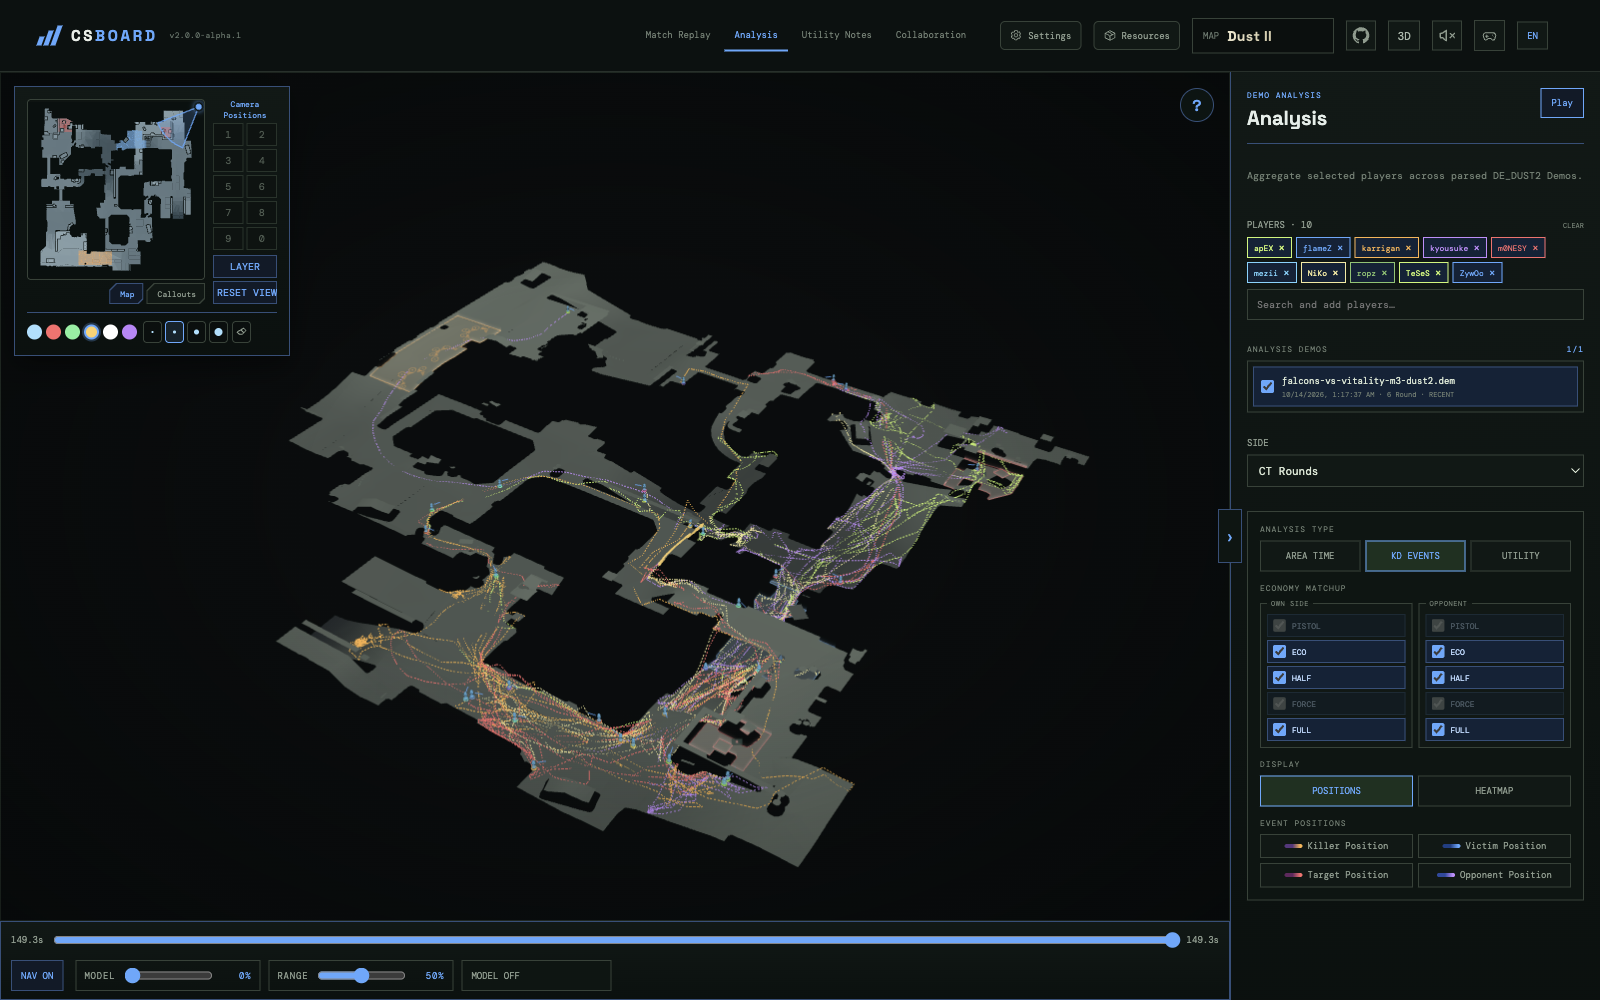
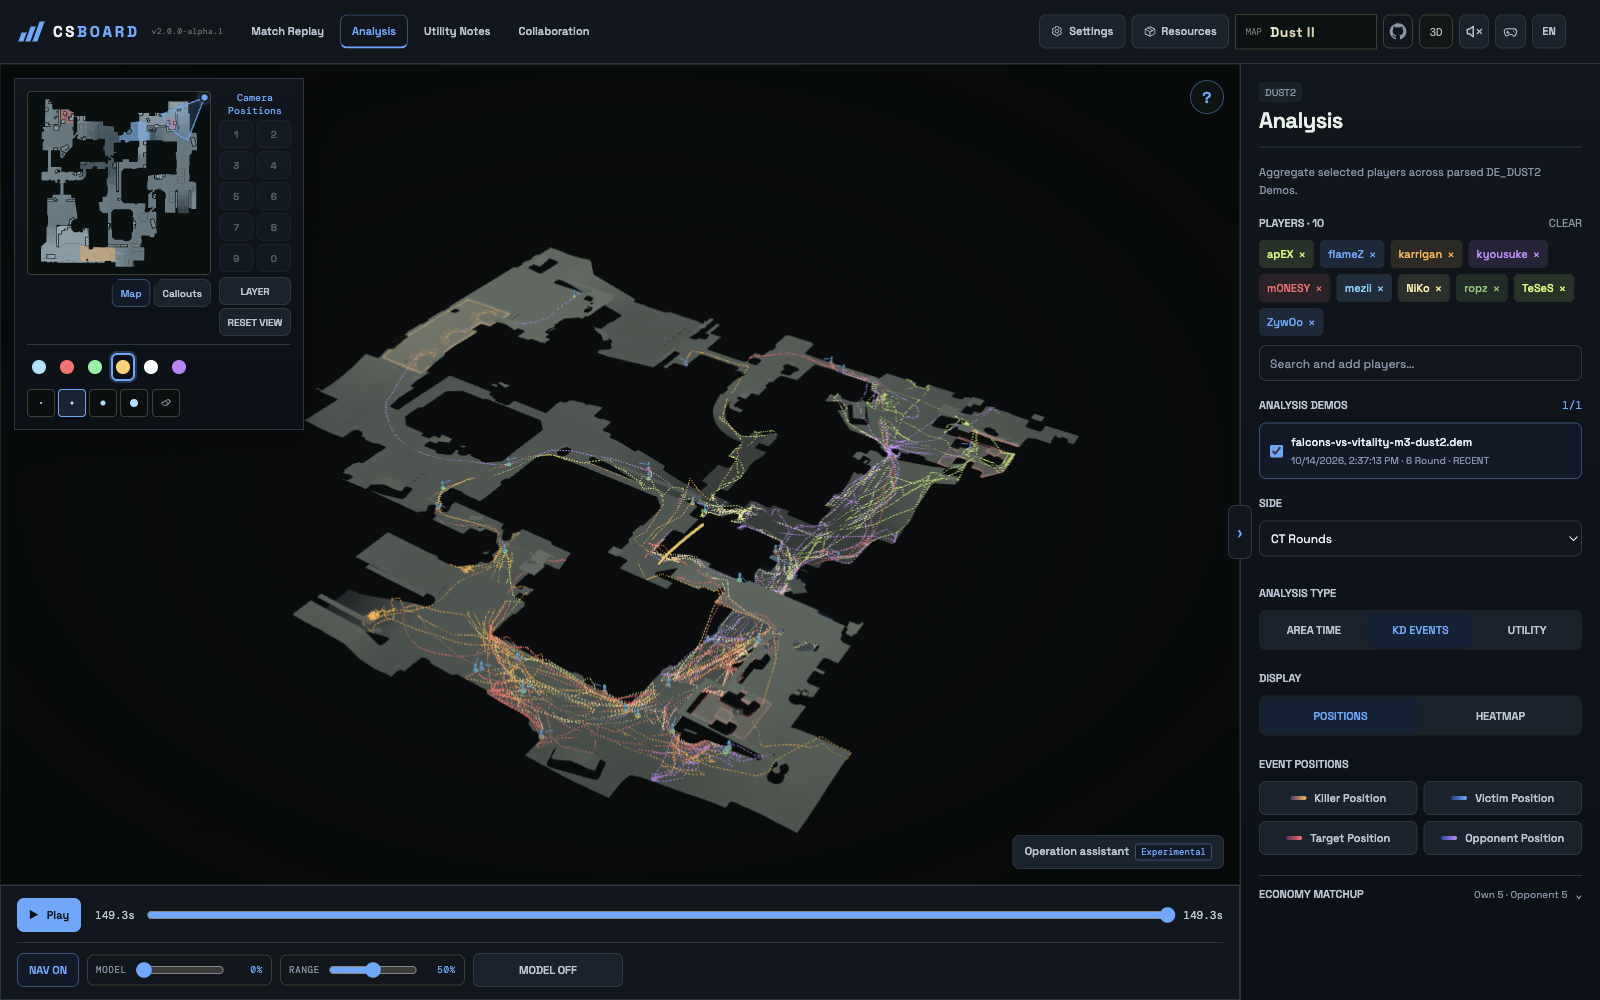
release: v2.0.0-alpha.2

diff --git a/docs/developer-guide.md b/docs/developer-guide.md
@@ -47,6 +47,10 @@ Public layouts use scene metres and radians; explicitly convert Source coordinat
 - Specify ownership and release of segments, Workers, subscriptions and GPU resources. Models remain optional.
 - Update assertions and test doubles with behavior changes. Check packaged dependencies and IPC using an actual application launch.
 
+## Workspace UI primitives
+
+`src/components/workspace/WorkspaceControls.jsx` provides `WorkspaceButton` (primary, secondary, quiet and selected states), `WorkspacePanelHeading`, and `WorkspaceSection` (optional native disclosure). Feature code supplies translated labels, state and handlers. All menus and portal dialogs share design tokens in `theme.css` and controls in `controls.css`; chrome layout lives in `workspace.css`. Module styles own only their content. Use the shared components for ordinary buttons and text fields (`workspace-input`); reserve native custom controls for timelines, color swatches and in-scene markers. Register playback in `bottom-transport`, display controls in the existing settings slots, and sidebar content through the workspace registry. Avoid positioning feature controls relative to the window.
+
 ## Further reading
 
 - [Minimal independent consumer](../packages/viewer/examples/minimal/README.md): start here for another application.
@@ -56,3 +60,13 @@ Public layouts use scene metres and radians; explicitly convert Source coordinat
 - [Testing](../tests/README.md), [AI corpus](ai/README.md), [preset data](presets/README.md).
 
 The viewer is a private experimental package, API 0.1, not published to npm. It uses GPL-3.0-only; read the [license](../LICENSE) and [third-party notices](THIRD_PARTY_NOTICES.md) before integrating or distributing it.
+
+## Interface text and errors
+
+Application translations live in `src/i18n/locales/{en,zh,ru}` and are grouped by feature. Add the same key and named placeholders to all three dictionaries; components use `translate(language, 'replay.example', { count })` or a bound `createTranslator(language)`. Use `translateParts` for React nodes, not HTML inside translated strings. Legacy keys remain readable through the existing `src/i18n.js` import path.
+
+Store a key plus values for asynchronous notices, rather than the translated sentence. Translate when rendering so changing language does not restart work or leave old-language status text. Worker progress sends `{ code, values }`; technical diagnostics retain their original text. Use `formatNumber`, `formatBytes` and `formatDuration` for display; never localize serialized coordinates, IDs or `getpos` commands.
+
+The viewer package does not depend on application dictionaries. Keep its error codes, operation results and schemas stable. The host can use `translateError` for a known code and retain `message` / `details` for diagnosis. Unknown errors keep their original message; do not infer codes by matching translated sentences or retry an operation just because its display text changed.
+
+`make i18n-check` checks dictionary keys, duplicate keys, placeholders, compatibility aliases and source references. It is also included in `make lint` and the existing release checks. Dynamic message selection must use registered keys; third-party error messages and user content are not translation keys.

diff --git a/docs/developer-guide.zh-CN.md b/docs/developer-guide.zh-CN.md
@@ -47,6 +47,10 @@ UI、第三方调用和 AI 工具尽量汇入公开命令。使用 `getCapabilit
 - 资源、片段、Worker、事件和 GPU 对象明确谁创建、谁释放；不要将可选模型变为启动必需项。
 - 修改实际行为就核对断言与测试替身；打包依赖和原生桥接要用真实产物启动检查。
 
+## 工作区视觉组件
+
+`src/components/workspace/WorkspaceControls.jsx` 提供 `WorkspaceButton`（主操作、普通、轻量和选中状态）、`WorkspacePanelHeading` 与 `WorkspaceSection`（可选原生折叠）。业务传入国际化文字、状态与事件。所有菜单和弹窗共享 `theme.css` 的设计变量与 `controls.css` 的控件样式；栏布局放在 `workspace.css`，模块样式只负责内容。普通按钮统一使用共享组件，文本输入使用 `workspace-input`；时间轴、色板与场景标记等专用控件保留原生结构。播放注册到 `bottom-transport`，显示控件注册到现有设置插槽，侧栏内容使用工作区注册机制；不按窗口坐标定位业务控件。
+
 ## 深入阅读
 
 - [最小独立接入示例](../packages/viewer/examples/minimal/README.md)：其他项目从这里开始。
@@ -57,3 +61,13 @@ UI、第三方调用和 AI 工具尽量汇入公开命令。使用 `getCapabilit
 - [AI 提示词](ai/README.md)、[预设数据](presets/README.md)：可贡献内容的位置。
 
 视图库目前是未发布到 npm 的私有实验包，API 0.1。代码按 GPL-3.0-only 提供；引用和分发前阅读 [许可证](../LICENSE) 与 [第三方说明](THIRD_PARTY_NOTICES.md)。
+
+## 界面文案与错误
+
+应用词典集中在 `src/i18n/locales/{en,zh,ru}`，按功能分组。新增文案时，三种语言使用相同的键和命名占位符；组件调用 `translate(language, 'replay.example', { count })`，或使用 `createTranslator(language)`。需要插入 React 元素时使用 `translateParts`，不要在词典中嵌入 HTML。原有 `src/i18n.js` 导入入口和旧键兼容映射仍保留。
+
+异步提示保存键和参数，在渲染时翻译，避免切换语言后保留旧文案或重新启动任务。解析进度传递 `{ code, values }`，技术诊断保留原文。界面数字、容量和耗时使用 `formatNumber`、`formatBytes`、`formatDuration`；序列化坐标、ID 和 `getpos` 指令不使用本地化格式。
+
+视图库不依赖应用词典。保持公开错误码、操作结果与数据结构稳定；宿主可使用 `translateError` 展示已知错误，并保留 `message` / `details` 供诊断。未知错误直接展示原文，不根据翻译后的句子猜错误码，也不因为显示文案变化而自动重试操作。
+
+`make i18n-check` 检查词典键、重复键、占位符、兼容映射及源码引用，并已纳入 `make lint` 和既有发布检查。动态选择的文案须使用词典中已有的键；第三方错误和用户输入不是翻译键。

diff --git a/docs/user-guide.md b/docs/user-guide.md
@@ -65,3 +65,13 @@ Demos, caches, archives, notes and sessions stay on your device. Collaboration a
 The operation assistant is experimental and can be excluded at build time. It can inspect context and execute editing tools, with separate sessions, memory, workflows and JSON import/export. Review its edits; it does not validate real throw physics or tactical effectiveness. See [AI prompts and references](ai/README.md).
 
 Room authorization and reconnection have limitations; large Demos can require substantial memory. Report the version, reproduction steps and relevant diagnostics in [Issues](https://github.com/dlwm/csBoard/issues), keeping private recordings and keys out of public reports.
+
+## Experimental operation assistant
+
+When AI is included in the build, the same assistant is available in Match Replay, Data Analysis and Collaboration. Configure a model that supports tool calls in its settings. The service receives the conversation and queried evidence; it does not automatically receive an entire Demo.
+
+In Match Replay, ask for a round summary or key events. Evidence cards identify the Demo, round and original tick; click a card to view that moment. In Data Analysis, select players and Demos, then ask for event statistics or utility recommendations. Event statistics apply Demo/player/round/event-type filters, not the UI's side, economy or spatial filters; recommendation results use the current UI filters. Missing data and omitted Demos are reported. Frequency scores do not measure tactical effectiveness.
+
+Prepared replay views and analysis filters apply only when clicked. Changing the selection can invalidate an old action. Review mode does not edit tactical archives or save throws automatically; use the normal UI to save them. Collaboration retains its existing editing tools. All of these AI features remain experimental.
+
+The experimental assistant can present evidence-linked finding cards, event-moment lists and two-column comparisons in Match Replay and Data Analysis. Click an evidence item to inspect it; publishing a card does not change the view. Cards are retained when saving or exporting a conversation and labelled as historical when reopened. Current data and selection are checked again before navigation. Comparisons show two groups of evidence, rather than simultaneous replay viewports.

diff --git a/docs/CHANGELOG.ru-RU.md b/docs/CHANGELOG.ru-RU.md
@@ -2,6 +2,24 @@
 
 [English](../CHANGELOG.md) · [中文](CHANGELOG.zh-CN.md)
 
+## [2.0.0-alpha.2] - 2026-10-14
+
+### Добавлено
+
+- Экспериментальный помощник доступен в повторе матча и анализе: карточки выводов, списки событий и сравнения с переходом к соответствующему моменту повтора.
+- Приложения с независимым просмотрщиком могут настраивать или отключать управление камерой мышью, клавиатурой и касаниями и загружать локальные модели карт.
+
+### Изменено
+
+- Единые элементы управления, заголовки панелей и навигация во всех рабочих пространствах.
+- Навигация, боковые панели, временные шкалы и диалоги адаптируются к размеру окна; увеличены области нажатия инструментов рисования и улучшены отступы.
+- Улучшены английские, китайские и русские тексты интерфейса, включая загрузку, ошибки и текущий статус.
+
+### Исправлено
+
+- Кнопки раскрытия боковых панелей остаются доступны после сворачивания; навигация не выходит за пределы верхней панели в низких окнах.
+- Корневую папку Root можно свернуть и раскрыть; пустая рамка плавающей карты больше не перекрывает статус игроков в повторе.
+
 ## [2.0.0-alpha.1] - 2026-10-14
 
 Первый предварительный выпуск CSBoard 2.0. Интерфейсы обмена данными и подключения просмотрщика экспериментальны и могут измениться до стабильного выпуска.

diff --git a/CHANGELOG.md b/CHANGELOG.md
@@ -2,6 +2,24 @@
 
 [中文](docs/CHANGELOG.zh-CN.md) · [Русский](docs/CHANGELOG.ru-RU.md)
 
+## [2.0.0-alpha.2] - 2026-10-14
+
+### Added
+
+- Extend the experimental operation assistant to Match Replay and Analysis, with evidence-linked findings, event lists and comparisons that can open the relevant replay moment.
+- Allow applications embedding the independent viewer to configure camera mouse, keyboard and touch controls, or disable them, and load local map models.
+
+### Changed
+
+- Refresh all workspaces with shared controls, consistent panel headings and a clearer navigation hierarchy.
+- Adapt navigation, sidebars, timelines and dialogs to window resizing, with larger drawing controls and improved spacing.
+- Improve English, Chinese and Russian interface text, including loading states, errors and live status.
+
+### Fixed
+
+- Keep sidebar toggles accessible when collapsed and prevent navigation from overflowing short windows.
+- Allow the Root folder to collapse and reopen, and prevent an empty floating map frame from covering replay player status.
+
 ## [2.0.0-alpha.1] - 2026-10-14
 
 This is the first preview of CSBoard 2.0. Data exchange and viewer integration interfaces are experimental and may change before the stable release.

diff --git a/docs/CHANGELOG.zh-CN.md b/docs/CHANGELOG.zh-CN.md
@@ -2,6 +2,24 @@
 
 [English](../CHANGELOG.md) · [Русский](CHANGELOG.ru-RU.md)
 
+## [2.0.0-alpha.2] - 2026-10-14
+
+### 新增
+
+- 实验性操作助手支持对局回放与数据分析，提供关联回放证据的发现卡片、事件列表与对比，可跳转到对应回放时刻。
+- 接入独立视图库的应用可自行配置或关闭鼠标、键盘及触控相机操作，并加载本地地图模型。
+
+### 调整
+
+- 所有工作区使用统一控件、面板标题和导航层级，改善界面比例与布局。
+- 顶栏、边栏、时间轴和弹窗随窗口大小调整排列，扩大画笔操作范围并优化间距。
+- 完善中文、英文与俄文界面文案，包括加载、错误和实时状态提示。
+
+### 修复
+
+- 侧栏收起后展开按钮保持可点击，短窗口导航不再超出顶栏。
+- Root 文件夹支持收起与重新展开，回放中的空白地图框不再遮挡选手状态栏。
+
 ## [2.0.0-alpha.1] - 2026-10-14
 
 CSBoard 2.0 的首个预览版本。数据交换与视图库接入接口仍为实验性，正式发布前可能调整。

diff --git a/docs/README.ru-RU.md b/docs/README.ru-RU.md
@@ -5,7 +5,7 @@
 [English](../README.md) · [中文](README.zh-CN.md) · [Скачать приложение](https://github.com/dlwm/csBoard/releases/latest)
 
 
-> **Предварительный выпуск 2.0:** [2.0.0-alpha.1](https://github.com/dlwm/csBoard/releases/tag/v2.0.0-alpha.1). Интерфейсы интеграции экспериментальны; ссылка загрузки ведёт на стабильный выпуск.
+> **Предварительный выпуск 2.0:** [2.0.0-alpha.2](https://github.com/dlwm/csBoard/releases/tag/v2.0.0-alpha.2). Интерфейсы интеграции экспериментальны; ссылка загрузки ведёт на стабильный выпуск.
 
 ## С чего начать?
 

diff --git a/README.md b/README.md
@@ -5,7 +5,7 @@ A tool for CS2 Demo playback, data analysis, utility notes and collaboration.
 [中文](docs/README.zh-CN.md) · [Русский](docs/README.ru-RU.md) · [Desktop download](https://github.com/dlwm/csBoard/releases/latest)
 
 
-> **2.0 preview:** [2.0.0-alpha.1](https://github.com/dlwm/csBoard/releases/tag/v2.0.0-alpha.1). Integration interfaces are experimental; the desktop download link points to the stable release.
+> **2.0 preview:** [2.0.0-alpha.2](https://github.com/dlwm/csBoard/releases/tag/v2.0.0-alpha.2). Integration interfaces are experimental; the desktop download link points to the stable release.
 
 ## Documentation
 

diff --git a/docs/README.zh-CN.md b/docs/README.zh-CN.md
@@ -5,7 +5,7 @@
 [English](../README.md) · [Русский](README.ru-RU.md) · [桌面端下载](https://github.com/dlwm/csBoard/releases/latest)
 
 
-> **2.0 预览版：** [2.0.0-alpha.1](https://github.com/dlwm/csBoard/releases/tag/v2.0.0-alpha.1)。接入接口仍为实验性；桌面端下载链接指向正式版。
+> **2.0 预览版：** [2.0.0-alpha.2](https://github.com/dlwm/csBoard/releases/tag/v2.0.0-alpha.2)。接入接口仍为实验性；桌面端下载链接指向正式版。
 
 ## 从这里开始
 
